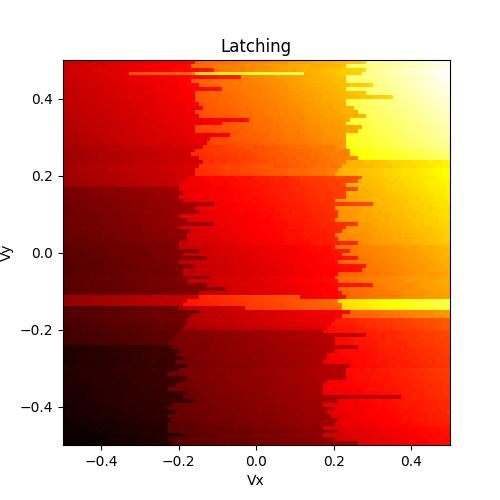
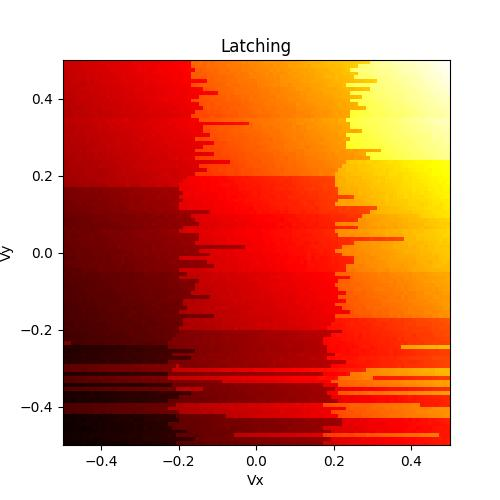
Adding plot options to gui

diff --git a/qarray/gui/gui.py b/qarray/gui/gui.py
@@ -1,22 +1,20 @@
+import re
 from time import perf_counter
 
 import dash
 import numpy as np
 import pandas as pd
+import plotly.express as px
 import plotly.graph_objects as go
 from dash import dash_table
 from dash import dcc, html
 from dash.dependencies import Input, Output
 
-import plotly.express as px
-
 from qarray import DotArray, GateVoltageComposer, dot_occupation_changes, charge_state_to_unique_index
-from .helper_functions import create_gate_options, n_charges_options, unique_last_axis
-
-import re
+from .helper_functions import create_gate_options, n_charges_options, unique_last_axis, plot_options
 
 
-def run_gui(model, port=27182, run=True, print_compute_time=False, plot='changes', cmap=None):
+def run_gui(model, port=27182, run=True, print_compute_time=False):
     """
     Create the GUI for the DotArray model.
 
@@ -27,10 +25,6 @@ def run_gui(model, port=27182, run=True, print_compute_time=False, plot='changes
     port : int
     run : bool
     print_compute_time : bool
-    plot : str : 'changes' or 'colour_map' (default 'changes')
-    cmap : str : the colormap to use for the plot if None the default colormap is used.
-    This is only used for the 'colour_map' plot argument. The allowed values are the names of the colour maps
-    in plotly.express.colors.named_colorscales()
     """
 
     app = dash.Dash(__name__)
@@ -134,23 +128,35 @@ def run_gui(model, port=27182, run=True, print_compute_time=False, plot='changes
             ], style={'display': 'inline-block', 'width': '30%', 'vertical-align': 'top'}),
 
             html.Div([
-                html.H4("n charges options"),
+                html.H4("Open/Closed options"),
                 dcc.Dropdown(
                     id='dropdown-menu-n-charges',
                     placeholder='Select n charges',
                     options=n_charges_options,
                     value='any'
+                ),
+
+                html.H4("Plot options"),
+                dcc.Dropdown(
+                    id='plot-options',
+                    placeholder='Whether to plot changes or colours and if so the colour map',
+                    options=plot_options,
+                    value='changes'
                 )
+
             ], style={'display': 'inline-block', 'width': '30%', 'margin-right': '2%', 'vertical-align': 'top'}),
+
         ], style={'text-align': 'left', 'margin-bottom': '20px', 'display': 'flex',
                   'justify-content': 'space-between'}),
 
+        html.Div([
         html.Div([
             dcc.Graph(
                 id='heatmap',
                 style={'width': '100%', 'display': 'block', 'margin-left': 'auto', 'margin-right': 'auto'}
             )
         ], style={'text-align': 'center', 'margin-top': '20px'})
+        ])
     ])
 
     @app.callback(
@@ -164,10 +170,11 @@ def run_gui(model, port=27182, run=True, print_compute_time=False, plot='changes
         Input('input-scalar1', 'value'),
         Input('input-scalar2', 'value'),
         Input('dropdown-menu-n-charges', 'value'),
+        Input('plot-options', 'value'),
         *[Input(f'dac_{i}', 'value') for i in range(model.n_gate)]
     )
     def update(Cdd, Cgd, x_gate, x_amplitude, x_resolution, y_gate, y_amplitude, y_resolution,
-               n_charges, *dac_values, cmap=cmap):
+               n_charges, plot_options, *dac_values):
         """
         Update the heatmap based on the input values.
         """
@@ -283,23 +290,17 @@ def run_gui(model, port=27182, run=True, print_compute_time=False, plot='changes
         if print_compute_time:
             print(f'Time taken to compute the charge state: {t1 - t0:.3f}s')
 
-        match plot:
-            case 'changes':
-                z = dot_occupation_changes(n).astype(float)
-                if cmap is None:
-                    cmap = 'greys'
+        if plot_options in px.colors.named_colorscales():
+            z = charge_state_to_unique_index(n).astype(float)
+            z = np.log2(z + 1)
+            cmap = plot_options
+        elif plot_options == 'changes':
+            z = dot_occupation_changes(n).astype(float)
+            cmap = 'greys'
+        else:
+            raise ValueError(
+                f'Plot {plot_options} is not recognized the options are "changes" or a colour map in {px.colors.named_colorscales()}')
 
-            case 'colour_map':
-                z = charge_state_to_unique_index(n).astype(float)
-                z = np.log2(z + 1)
-
-                if cmap is None:
-                    cmap = 'cividis'
-
-            case _:
-                raise ValueError(f'Plot {plot} is not recognized the options are "changes" or "colour_map"')
-
-        assert cmap in px.colors.named_colorscales(), f'cmap {cmap} is not a valid colormap the options are {px.colors.named_colorscales()}'
         # Create the heatmap
         fig = go.Figure(data=go.Heatmap(
             z=z,
@@ -337,7 +338,7 @@ def run_gui(model, port=27182, run=True, print_compute_time=False, plot='changes
                 showarrow=False,
                 font=dict(
                     color='black',
-                    size=7
+                    size=11
                 )
             )
 

diff --git a/qarray/gui/helper_functions.py b/qarray/gui/helper_functions.py
@@ -1,5 +1,7 @@
-import numpy as np
 from itertools import combinations
+
+import numpy as np
+import plotly.express as px
 
 
 def unique_last_axis(arr):
@@ -39,6 +41,10 @@ def create_gate_options(N):
     u_gates = [f'U {i + 1} {j + 1}' for i, j in combinations(range(N), 2)]
 
     return [{'label': gate, 'value': gate} for gate in true_gates + virtual_gates + e_gates + u_gates]
+
+
+plot_options = [{'label': 'charge transitions', 'value': 'changes'}] + [{'label': name, 'value': name} for name in
+                                                                        px.colors.named_colorscales()]
 
 
 n_charges_options = [

diff --git a/qarray/DotArrays/DotArray.py b/qarray/DotArrays/DotArray.py
@@ -188,10 +188,10 @@ class DotArray:
         """
         return compute_threshold(self.cdd)
 
-    def run_gui(self, port=27182, print_compute_time: bool = False, plot = 'changes', cmap = None):
+    def run_gui(self, port=27182, print_compute_time: bool = False):
         """
         Creates a GUI for the dot array
         """
         # importing the run_gui function here to avoid circular imports
         from ..gui import run_gui
-        run_gui(self, port=port, print_compute_time=print_compute_time, plot = plot, cmap = cmap)
+        run_gui(self, port=port, print_compute_time=print_compute_time)

diff --git a/examples/default_example.py b/examples/default_example.py
@@ -19,6 +19,8 @@ model = DotArray(
     charge_carrier='h', T=0.,
 )
 
+model.run_gui()
+
 # a helper class designed to make it easy to create gate voltage arrays for nd sweeps
 voltage_composer = GateVoltageComposer(n_gate=model.n_gate)
 

diff --git a/examples/gui.py b/examples/gui.py
@@ -34,4 +34,4 @@ model = DotArray(
     implementation='rust', charge_carrier='h', T=0., threshold=1.,
     max_charge_carriers=4,
 )
-model.run_gui(plot = 'changes')
+model.run_gui()
